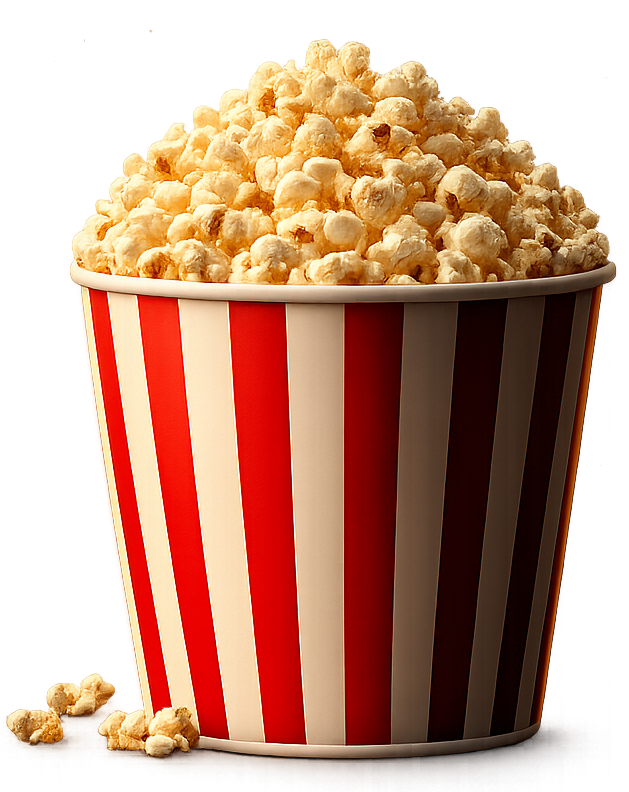
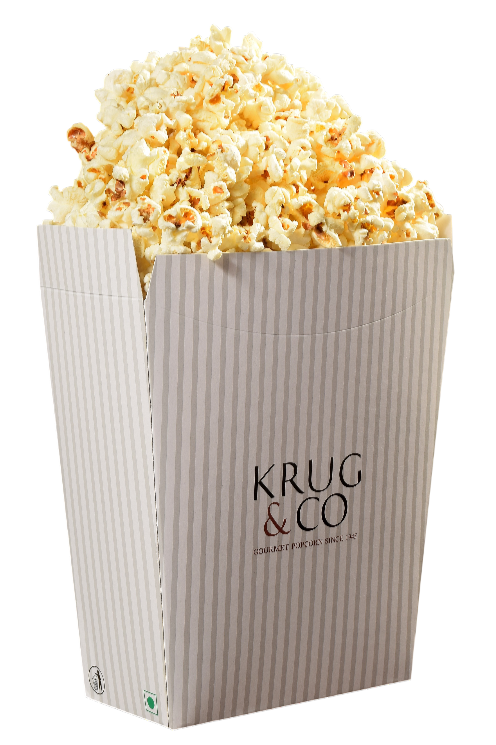
Updated images

diff --git a/index.css b/index.css
@@ -1927,6 +1927,93 @@ body[data-page="home"] .founder-header h2 {
     z-index: 41;
   }
 
+  /* ── MOBILE HERO RESTRUCTURE ──
+     On mobile, the hero is a true full-screen section containing ONLY
+     headline, description, and CTA buttons. The bucket image is hidden.
+     The metric strip is pulled below the hero viewport boundary via
+     absolute positioning, appearing as its own dedicated section.
+     The hero's overflow:visible + margin-bottom make space for it. */
+
+  /* 1. Hero container: fixed 100dvh, overflow-visible for stats overflow */
+  body[data-page="home"] .hero {
+    height: 100dvh;
+    height: 100svh; /* fallback for browsers without dvh */
+    min-height: 0;
+    max-height: 100dvh;
+    overflow: visible;
+    position: relative;
+    padding-top: var(--header-h);
+    padding-bottom: 0;
+    /* Space below hero for the metric strip that overflows.
+       3-col × 2 rows ≈ 280px at 1024px. Adjusted at smaller breakpoints. */
+    margin-bottom: clamp(240px, 32vw, 300px);
+  }
+
+  /* 2. Hero grid: only center the text content, ignore art + metrics */
+  body[data-page="home"] .hero .shell.hero-grid {
+    flex: 1 1 auto;
+    display: flex;
+    flex-direction: column;
+    align-items: center;
+    justify-content: center;
+    padding-bottom: 0;
+    min-height: 0;
+    height: 100%;
+  }
+
+  /* 3. Hero copy: vertically centered, well-spaced */
+  body[data-page="home"] .hero .hero-copy {
+    order: 1;
+    display: flex;
+    flex-direction: column;
+    align-items: center;
+    text-align: center;
+    padding: clamp(16px, 3vh, 32px) 0;
+    max-width: 600px;
+  }
+
+  /* 4. Hide the bucket image entirely on mobile */
+  body[data-page="home"] .hero .hero-art {
+    display: none !important;
+  }
+
+  /* 5. Metric strip: positioned just below the hero viewport,
+        creating its own visual "section" below the hero */
+  body[data-page="home"] .hero .metric-strip {
+    position: absolute;
+    top: 100%; /* sits right below the 100dvh hero */
+    left: 0;
+    right: 0;
+    bottom: auto;
+    z-index: 10;
+    width: 100%;
+    padding: clamp(24px, 4vw, 40px) var(--shell-pad);
+    margin: 0;
+    /* Dark surface to visually separate from hero */
+    background: linear-gradient(180deg,
+        rgba(12, 20, 51, 0.98) 0%,
+        #0c1433 100%);
+  }
+
+  body[data-page="home"] .hero .metric-strip .metric-pill {
+    min-height: 0;
+  }
+
+  /* 6. Video background: lock to 100dvh so it covers the hero perfectly */
+  body[data-page="home"] .hero-video-bg {
+    position: absolute;
+    top: 0;
+    left: 0;
+    width: 100%;
+    height: 100dvh;
+    height: 100svh; /* fallback */
+  }
+
+  body[data-page="home"] .hero-video-overlay {
+    height: 100dvh;
+    height: 100svh;
+  }
+
   .metric-strip {
     grid-template-columns: repeat(3, minmax(0, 1fr));
   }
@@ -1961,10 +2048,6 @@ body[data-page="home"] .founder-header h2 {
   body[data-page="home"] #process .process-step:nth-child(even) {
     transform: none;
   }
-
-  body[data-page="home"] .bucket {
-    width: min(420px, 85%);
-  }
 }
 
 /* Large mobile / small tablet */
@@ -1972,6 +2055,16 @@ body[data-page="home"] .founder-header h2 {
   .metric-strip {
     grid-template-columns: repeat(2, minmax(0, 1fr));
     margin-top: 24px;
+  }
+
+  /* Mobile hero: metric strip goes 2-col, taller overflow area needed */
+  body[data-page="home"] .hero .metric-strip {
+    margin-top: 0;
+  }
+
+  /* 2-col × 3 rows ≈ 400px: increase overflow space */
+  body[data-page="home"] .hero {
+    margin-bottom: clamp(360px, 50vw, 440px);
   }
 
   .story-grid {
@@ -2027,8 +2120,6 @@ body[data-page="home"] .founder-header h2 {
   .story-panel>* {
     margin-inline: auto;
   }
-
-
 }
 
 /* Mobile */
@@ -2038,7 +2129,15 @@ body[data-page="home"] .founder-header h2 {
     margin-top: 32px;
   }
 
-  /* (Handled by 768px query) */
+  /* Mobile hero: metric strip goes single-column on small phones */
+  body[data-page="home"] .hero .metric-strip {
+    margin-top: 0;
+  }
+
+  /* 1-col × 5 rows ≈ 560px: maximum overflow space */
+  body[data-page="home"] .hero {
+    margin-bottom: clamp(520px, 85vw, 620px);
+  }
 
   .process-line {
     grid-template-columns: 1fr;
@@ -2055,8 +2154,6 @@ body[data-page="home"] .founder-header h2 {
     padding-inline: clamp(16px, 6vw, 36px);
   }
 
-
-
   body[data-page="home"] #farmer-ecosystem .husk-prose .intro-card {
     grid-template-columns: 1fr;
     justify-items: start;
@@ -2064,10 +2161,6 @@ body[data-page="home"] .founder-header h2 {
 
   body[data-page="home"] #farmer-ecosystem .husk-prose .intro-card .feature-icon {
     justify-self: start;
-  }
-
-  body[data-page="home"] .bucket {
-    width: min(300px, 80%);
   }
 }
 

diff --git a/krug-co.css b/krug-co.css
@@ -69,6 +69,11 @@ body[data-page="krug-co"] .hero-actions {
   gap: var(--grid-gap);
 }
 
+/* Portrait aspect ratio for the Krug & Co poster in the brand story section */
+.krug-about-visual .krug-image-frame {
+  aspect-ratio: 0.68;
+}
+
 .krug-about-content {
   padding-left: clamp(20px, 3vw, 40px);
 }
@@ -102,6 +107,12 @@ body[data-page="krug-co"] .krug-about-content .editorial-lead {
   width: 100%;
   max-width: 1000px;
   margin-inline: auto;
+}
+
+/* Enlarge the product showcase frame for hero packshot presentation */
+.krug-product-showcase .krug-image-frame {
+  max-width: 560px;
+  aspect-ratio: 0.72;
 }
 
 .krug-lineup-img {
@@ -237,6 +248,11 @@ body[data-page="krug-co"] .krug-about-content .editorial-lead {
   align-items: center;
   gap: var(--grid-gap);
   margin-top: 32px;
+}
+
+/* Portrait aspect ratio for the Krug & Co branded box packshot */
+.krug-kiosks-visual .krug-image-frame {
+  aspect-ratio: 0.78;
 }
 
 .krug-kiosk-img {

diff --git a/krug-co.html b/krug-co.html
@@ -102,7 +102,7 @@
           </div>
           <div class="krug-about-visual reveal" aria-hidden="true">
             <div class="krug-image-frame">
-              <img src="assets/popcorn-process.jpg" alt="Krug &amp; Co Premium Recipe Selection"
+              <img src="assets/krug%26co-poster.jpg" alt="Krug &amp; Co Gourmet Popcorn Since 1945 — Branded Heritage Poster"
                 class="krug-about-img" />
             </div>
           </div>
@@ -129,7 +129,7 @@
         <!-- Primary Product Showcase Grid -->
         <div class="krug-product-showcase reveal">
           <div class="krug-image-frame">
-            <img src="assets/popcorn.jpg" alt="Krug &amp; Co Signature Tins Product Lineup" class="krug-lineup-img" />
+            <img src="assets/krug%26co-filled-box2.png" alt="Krug &amp; Co Branded Popcorn Box — Ready to Eat Gourmet Selection" class="krug-lineup-img" />
           </div>
         </div>
 
@@ -232,7 +232,7 @@
         <div class="krug-kiosks-grid">
           <div class="krug-kiosks-visual reveal" aria-hidden="true">
             <div class="krug-image-frame">
-              <img src="assets/popcorn-2.jpg" alt="Operational Gourmet Kiosk Setup" class="krug-kiosk-img" />
+              <img src="assets/krug%26co-filled-box3.png" alt="Krug &amp; Co Premium Popcorn Box — Gourmet Kiosk Product" class="krug-kiosk-img" />
             </div>
           </div>
           <div class="krug-kiosks-content reveal">